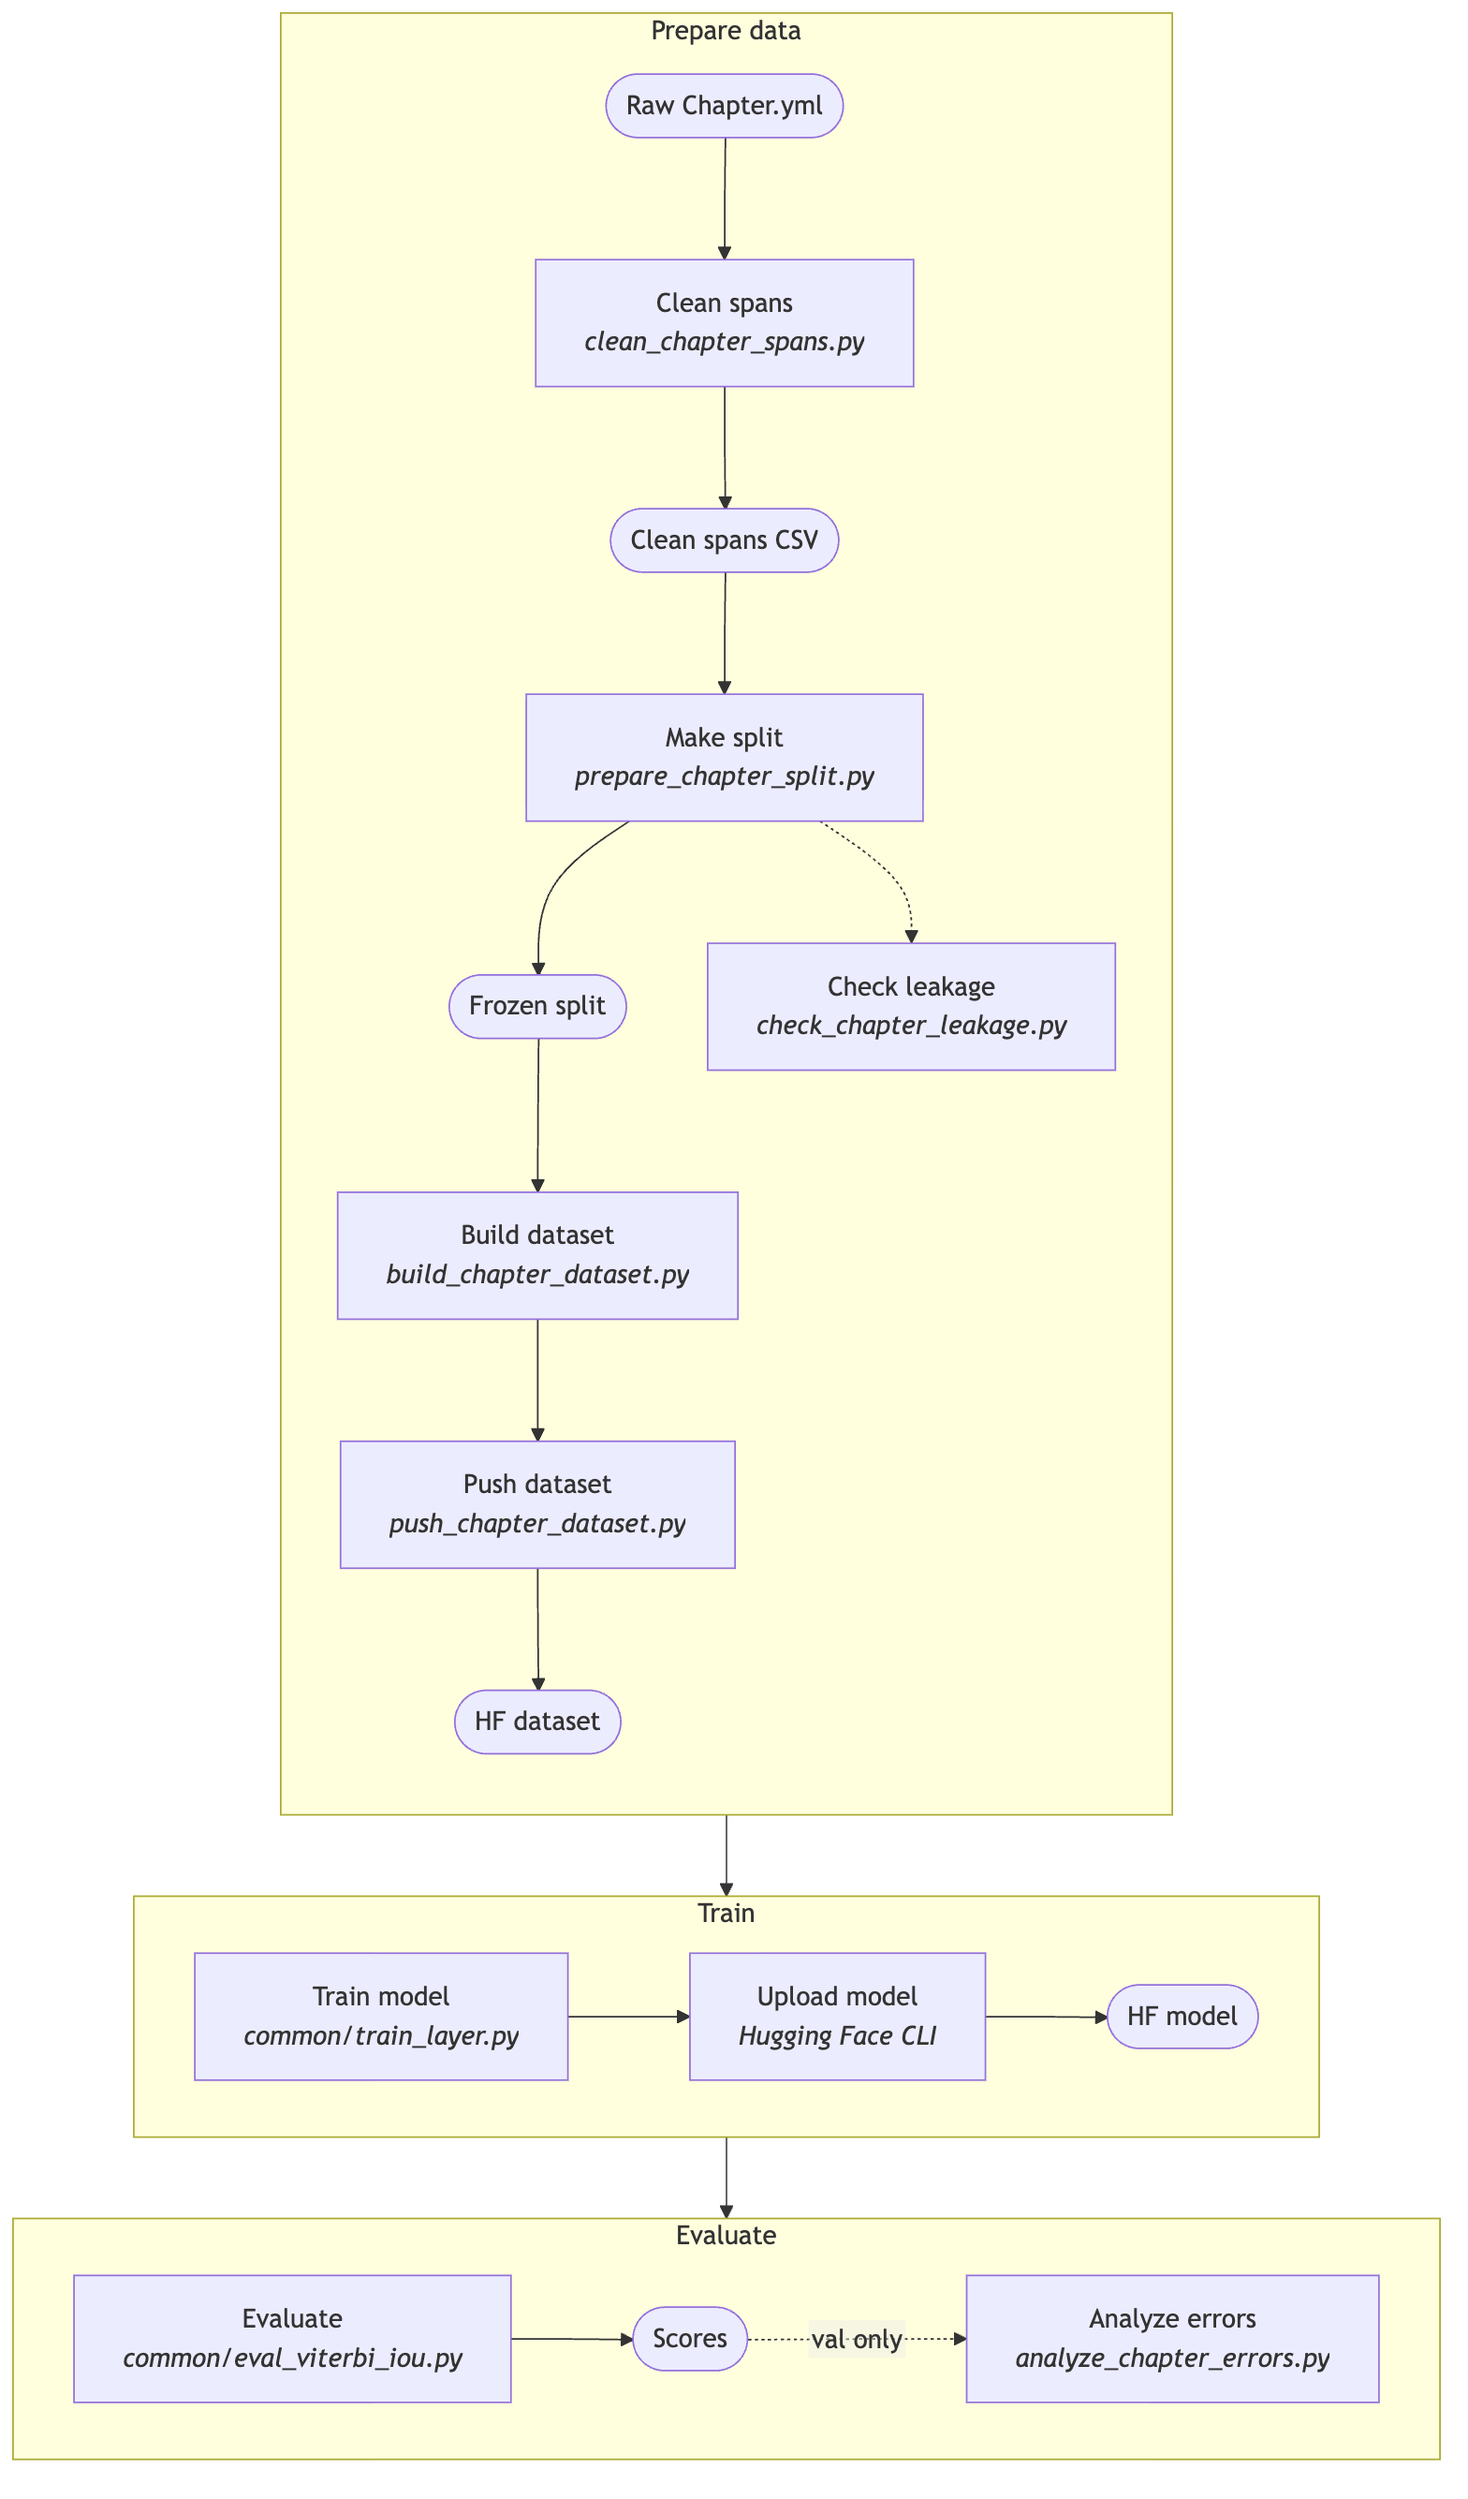
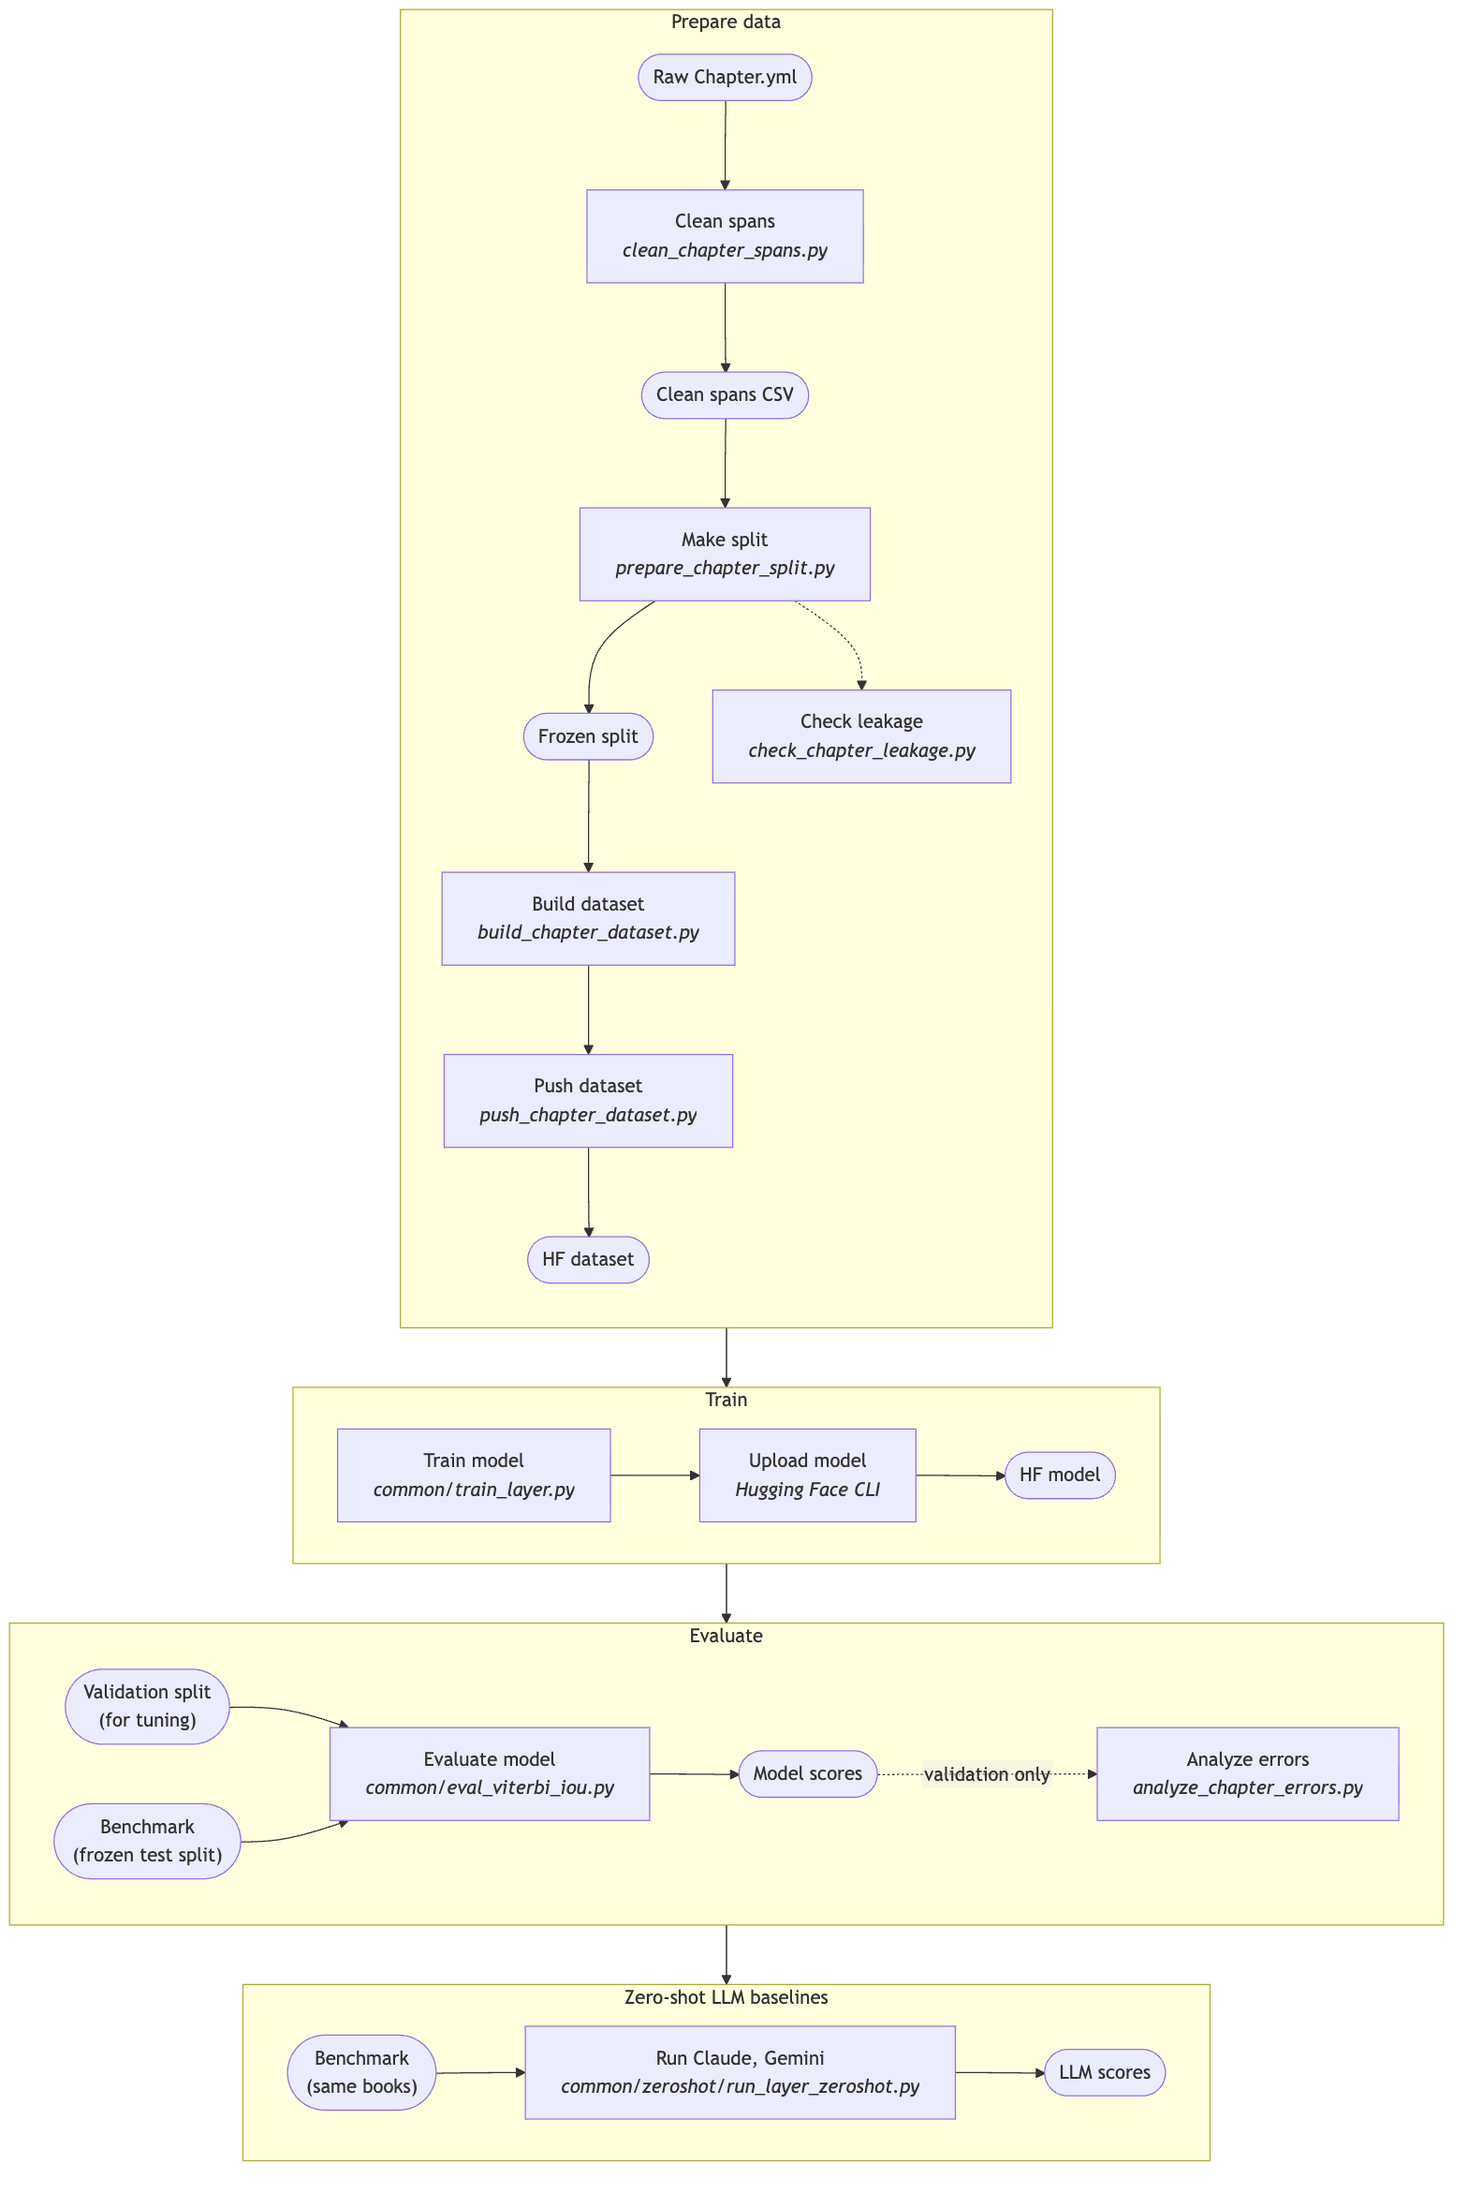
Chapter chart: show benchmark, validation and the zero-shot LLM runs

diff --git a/chapter/README.md b/chapter/README.md
@@ -32,14 +32,14 @@ Both are private (read from the Hub, 2026-11-17); a 404 means you need access fr
 
 <sub>Chart source: [pipeline.mmd](docs/pipeline.mmd)</sub>
 
-Squares are steps with the script that runs them; rounded boxes are files; dashed arrows are optional steps. The cards are in [docs/](docs/).
+Squares are steps with the script that runs them; rounded boxes are files; dashed arrows are optional steps. The **benchmark** is the frozen test split: it is scored once and never used to tune or to analyze errors (errors are analyzed on validation only). The zero-shot LLM runs (Claude Sonnet 5, Gemini 3.1 Flash Lite) use the same benchmark books; their results are in [results/zeroshot/](results/zeroshot/). The cards are in [docs/](docs/).
 
 ## Main pipeline
 
 | Script | What it does | When to run |
 |---|---|---|
 | [clean_chapter_spans.py](src/clean_chapter_spans.py) | Cleans raw chapter spans and flags bad books. | First; rerun on new annotations. |
-| [prepare_chapter_split.py](src/prepare_chapter_split.py) | Makes the frozen train, validation and test split. | After cleaning; test split is frozen. |
+| [prepare_chapter_split.py](src/prepare_chapter_split.py) | Makes the frozen train, validation and test split. | After cleaning; benchmark is frozen. |
 | [build_chapter_dataset.py](src/build_chapter_dataset.py) | Tokenizes books into BIO windows for mmBERT. | After the split. |
 | [push_chapter_dataset.py](src/push_chapter_dataset.py) | Uploads the dataset and its card to the Hub. | After building the dataset. |
 | [train_layer.py](../common/train_layer.py) | Fine-tunes mmBERT for the Chapter layer. | On a GPU machine. |
@@ -54,7 +54,7 @@ All commands run from the repository root.
 ```bash
 # 1. Clean the spans and flag bad books
 python chapter/src/clean_chapter_spans.py
-# 2. Make the train/validation/test split. Test split is frozen: score it once.
+# 2. Make the train/validation/test split. The benchmark (test split) is frozen: score it once.
 python chapter/src/prepare_chapter_split.py --keep-v3
 # 3. Build the BIO dataset (8,192-token windows)
 python chapter/src/build_chapter_dataset.py
@@ -77,7 +77,7 @@ python common/eval_viterbi_iou.py --model BDRC/Bo-Chapter-Detection --dataset BD
 
 ## Results
 
-Test set. Numbers are copied from the [model card](docs/model_card.md) and the zero-shot READMEs.
+Benchmark (test split). Numbers are copied from the [model card](docs/model_card.md) and the zero-shot READMEs.
 
 | Model | F1 | P | R |
 |---|---|---|---|
